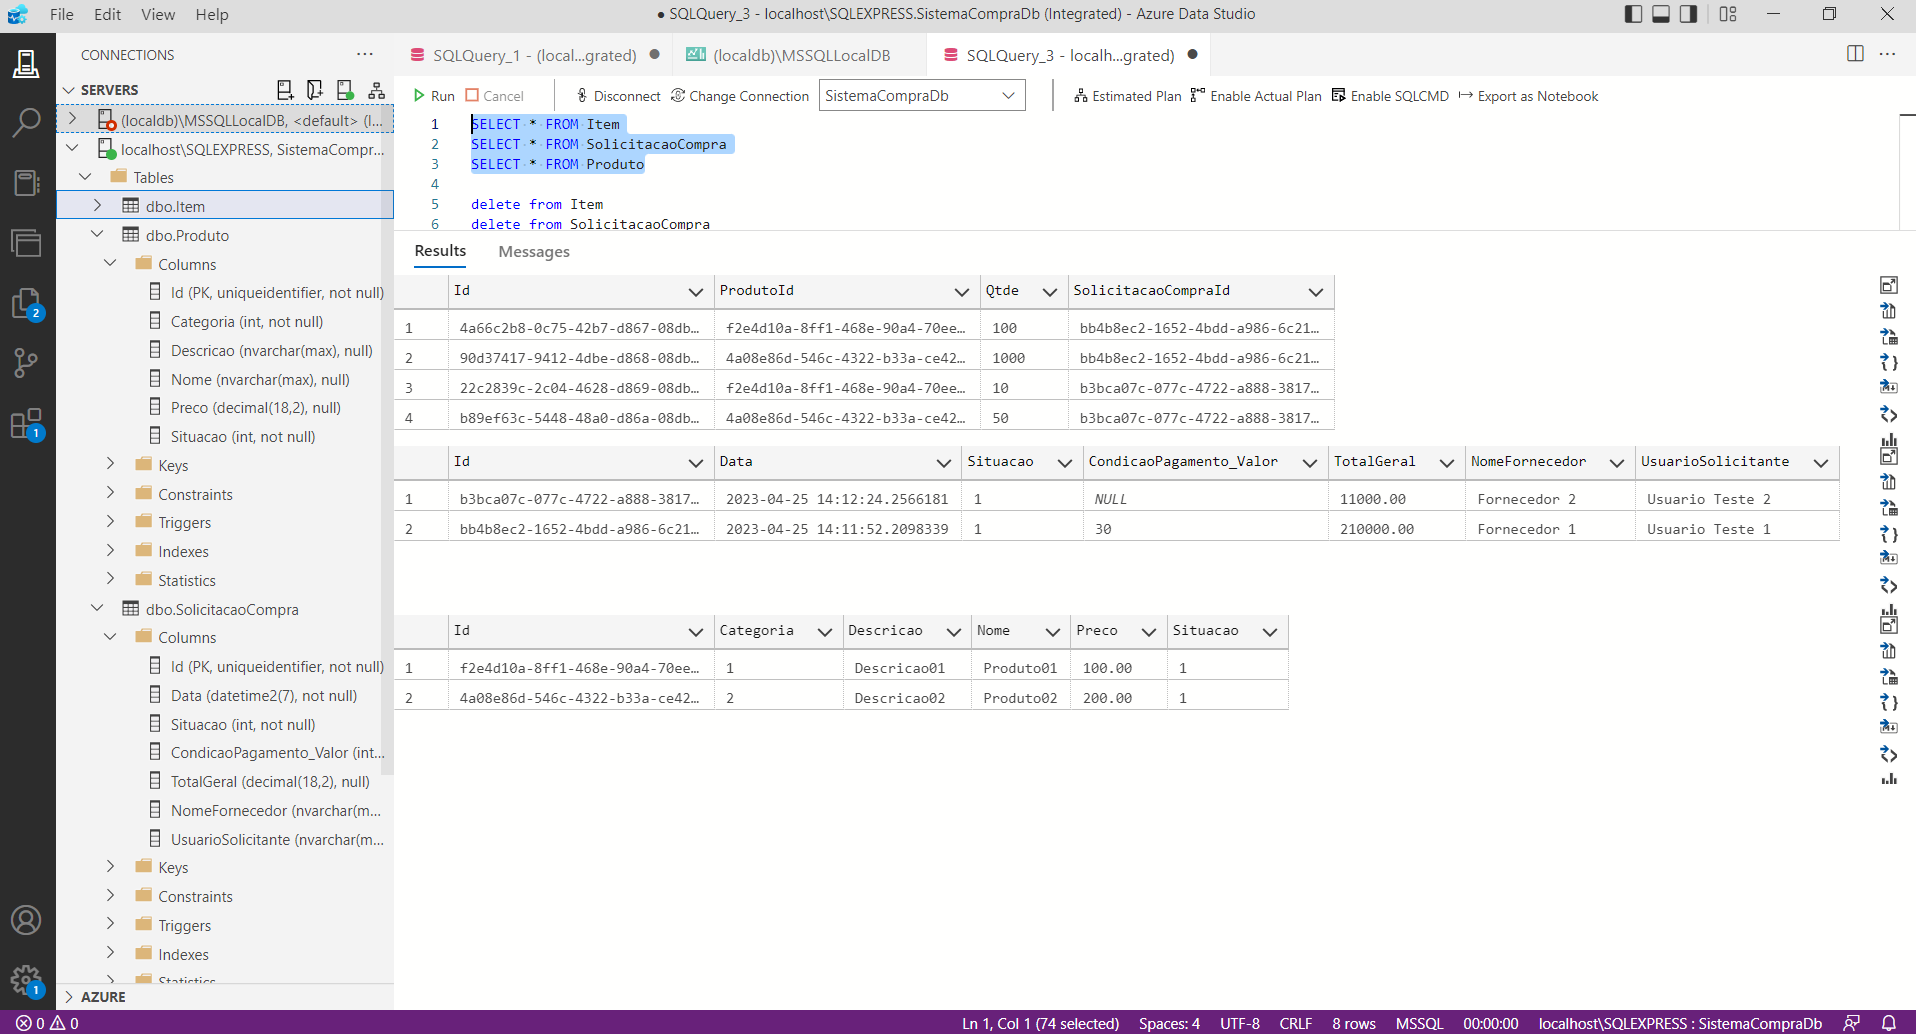
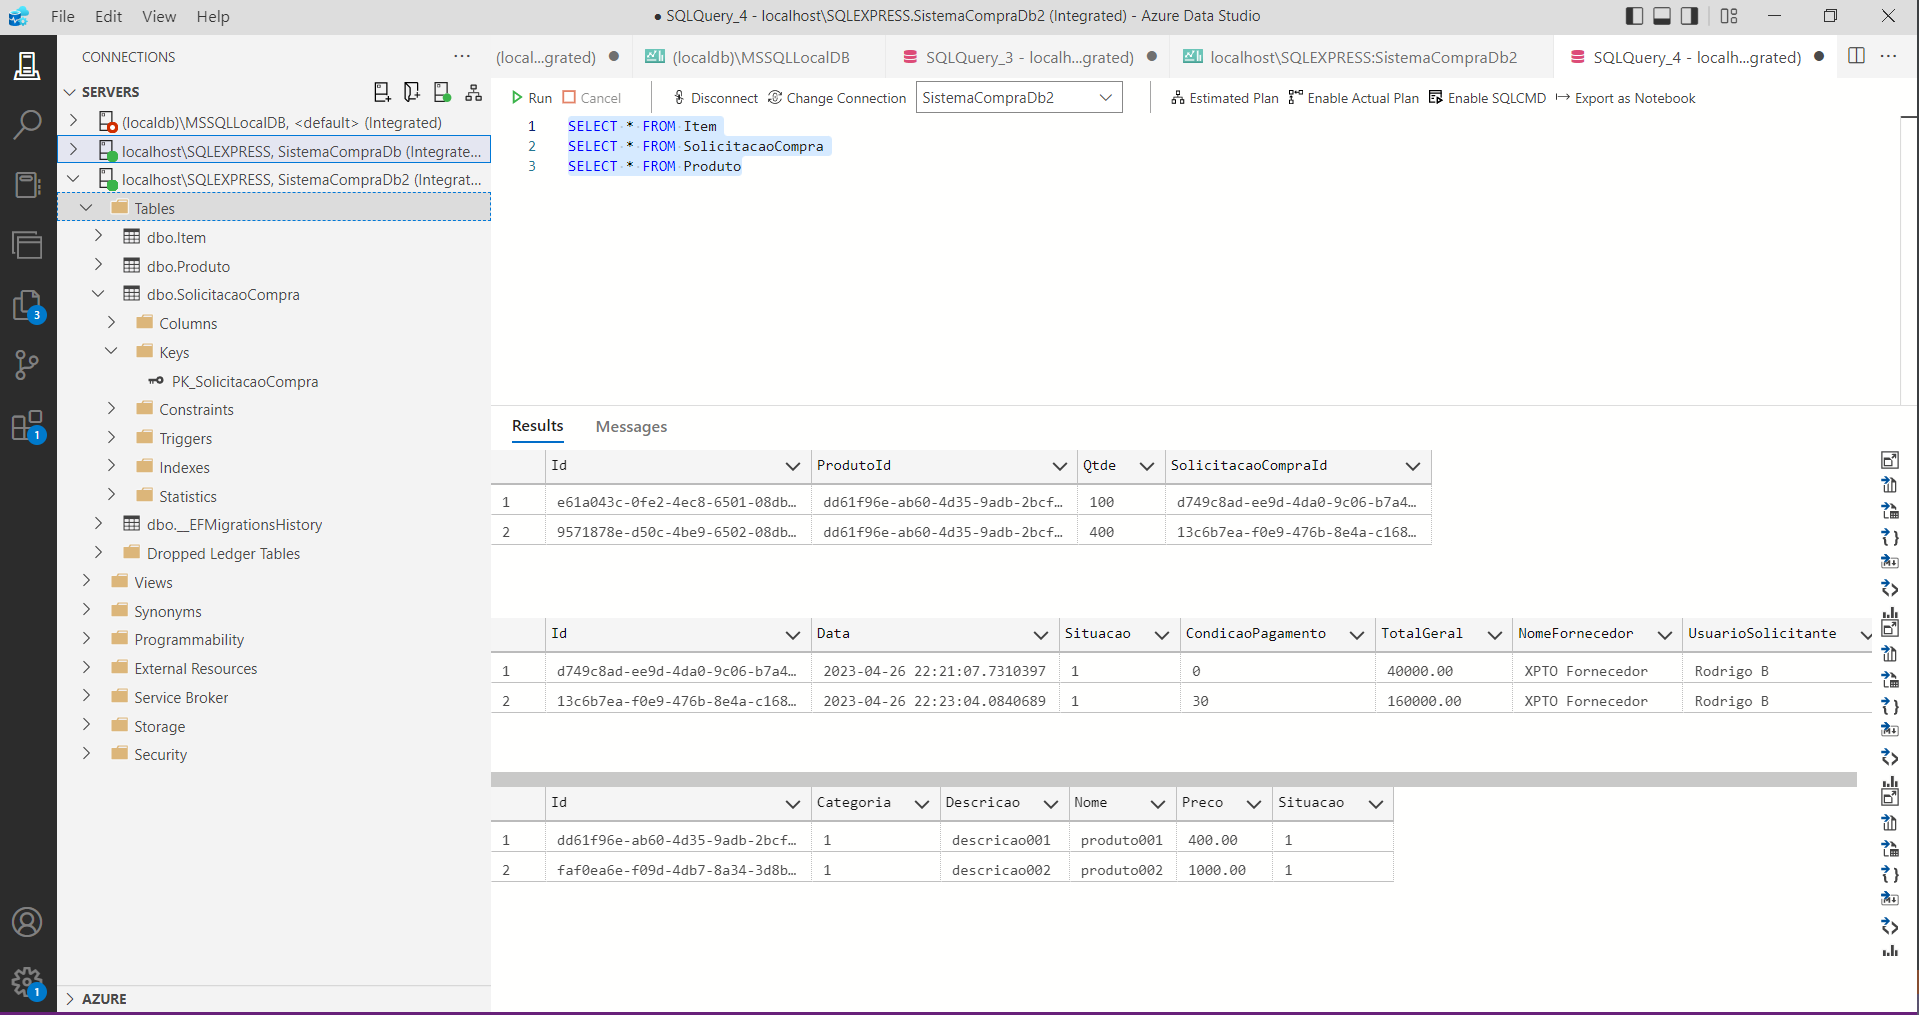
RB: - Refatorado e adicionado configurações explicitas da entidade Item e SolicitacaoCompra; - Adicionado Verificacao se enviar uma lista sem produto ou o produto não for encontrado; - Adicionado mais testes, e teste da CommandHandler de Solicitacao de Compra

diff --git a/src/SistemaCompra.API/Migrations/20230427010203_AddSolicitacaoCompra_ItemConfiguration.cs b/src/SistemaCompra.API/Migrations/20230427010203_AddSolicitacaoCompra_ItemConfiguration.cs
@@ -1,0 +1,59 @@
+using Microsoft.EntityFrameworkCore.Migrations;
+
+namespace SistemaCompra.API.Migrations
+{
+    public partial class AddSolicitacaoCompra_ItemConfiguration : Migration
+    {
+        protected override void Up(MigrationBuilder migrationBuilder)
+        {
+            migrationBuilder.RenameColumn(
+                name: "CondicaoPagamento_Valor",
+                table: "SolicitacaoCompra",
+                newName: "CondicaoPagamento");
+
+            migrationBuilder.AlterColumn<string>(
+                name: "UsuarioSolicitante",
+                table: "SolicitacaoCompra",
+                type: "varchar(100)",
+                nullable: true,
+                oldClrType: typeof(string),
+                oldType: "nvarchar(max)",
+                oldNullable: true);
+
+            migrationBuilder.AlterColumn<string>(
+                name: "NomeFornecedor",
+                table: "SolicitacaoCompra",
+                type: "varchar(100)",
+                nullable: true,
+                oldClrType: typeof(string),
+                oldType: "nvarchar(max)",
+                oldNullable: true);
+        }
+
+        protected override void Down(MigrationBuilder migrationBuilder)
+        {
+            migrationBuilder.RenameColumn(
+                name: "CondicaoPagamento",
+                table: "SolicitacaoCompra",
+                newName: "CondicaoPagamento_Valor");
+
+            migrationBuilder.AlterColumn<string>(
+                name: "UsuarioSolicitante",
+                table: "SolicitacaoCompra",
+                type: "nvarchar(max)",
+                nullable: true,
+                oldClrType: typeof(string),
+                oldType: "varchar(100)",
+                oldNullable: true);
+
+            migrationBuilder.AlterColumn<string>(
+                name: "NomeFornecedor",
+                table: "SolicitacaoCompra",
+                type: "nvarchar(max)",
+                nullable: true,
+                oldClrType: typeof(string),
+                oldType: "varchar(100)",
+                oldNullable: true);
+        }
+    }
+}

diff --git a/src/SistemaCompra.Infra.Data/SolicitacaoCompra/SolicitacaoCompraConfiguration.cs b/src/SistemaCompra.Infra.Data/SolicitacaoCompra/SolicitacaoCompraConfiguration.cs
@@ -1,5 +1,6 @@
 using Microsoft.EntityFrameworkCore;
 using Microsoft.EntityFrameworkCore.Metadata.Builders;
+using System;
 using SolicitacaoCompraAgg = SistemaCompra.Domain.SolicitacaoCompraAggregate;
 
 namespace SistemaCompra.Infra.Data.SolicitacaoCompra
@@ -9,11 +10,34 @@ namespace SistemaCompra.Infra.Data.SolicitacaoCompra
         public void Configure(EntityTypeBuilder<SolicitacaoCompraAgg.SolicitacaoCompra> builder)
         {
             builder.ToTable("SolicitacaoCompra");
-            builder.OwnsOne(c => c.TotalGeral, b => b.Property("Value").HasColumnName("TotalGeral"));
-            builder.OwnsOne(c => c.UsuarioSolicitante, b => b.Property("Nome").HasColumnName("UsuarioSolicitante"));
-            builder.OwnsOne(c => c.NomeFornecedor, b => b.Property("Nome").HasColumnName("NomeFornecedor"));
-            builder.OwnsOne(c => c.CondicaoPagamento);
+            builder.HasKey("Id");
 
+            builder.Property<Guid>("Id")
+                        .ValueGeneratedOnAdd()
+                        .HasColumnType("uniqueidentifier");
+
+            builder.Property<DateTime>("Data")
+                .HasColumnType("datetime2");
+
+            builder.Property(c => c.Situacao)
+                .HasColumnName("Situacao")
+                .HasColumnType("int");
+
+            builder.OwnsOne(c => c.TotalGeral, b => b.Property("Value")
+                .HasColumnName("TotalGeral")
+                .HasColumnType("decimal(18,2)"));
+
+            builder.OwnsOne(c => c.CondicaoPagamento, b => b.Property("Valor")
+                .HasColumnName("CondicaoPagamento")
+                .HasColumnType("int"));
+
+            builder.OwnsOne(c => c.NomeFornecedor, b => b.Property("Nome")
+                .HasColumnName("NomeFornecedor")
+                .HasColumnType("varchar(100)"));
+
+            builder.OwnsOne(c => c.UsuarioSolicitante, b => b.Property("Nome")
+                .HasColumnName("UsuarioSolicitante")
+                .HasColumnType("varchar(100)"));
         }
     }
 }

diff --git a/src/SistemaCompra.Infra.Data/SolicitacaoCompra/ItemConfiguration.cs b/src/SistemaCompra.Infra.Data/SolicitacaoCompra/ItemConfiguration.cs
@@ -1,0 +1,43 @@
+using Microsoft.EntityFrameworkCore;
+using Microsoft.EntityFrameworkCore.Metadata.Builders;
+using System;
+using System.Collections.Generic;
+using System.Text;
+
+namespace SistemaCompra.Infra.Data.SolicitacaoCompra
+{
+    public class ItemConfiguration : IEntityTypeConfiguration<Domain.SolicitacaoCompraAggregate.Item>
+    {
+        public void Configure(EntityTypeBuilder<Domain.SolicitacaoCompraAggregate.Item> builder)
+        {
+            builder.ToTable("Item");
+
+            builder.Property<Guid>("Id")
+                        .ValueGeneratedOnAdd()
+                        .HasColumnType("uniqueidentifier");
+
+            builder.Property<Guid?>("ProdutoId")
+                .HasColumnType("uniqueidentifier");
+
+            builder.Property<int>("Qtde")
+                .HasColumnType("int");
+
+            builder.Property<Guid?>("SolicitacaoCompraId")
+                .HasColumnType("uniqueidentifier");
+
+            builder.HasKey("Id");
+
+            builder.HasIndex("ProdutoId");
+
+            builder.HasIndex("SolicitacaoCompraId");
+
+            builder.HasOne("SistemaCompra.Domain.ProdutoAggregate.Produto", "Produto")
+                        .WithMany()
+                        .HasForeignKey("ProdutoId");
+
+            builder.HasOne("SistemaCompra.Domain.SolicitacaoCompraAggregate.SolicitacaoCompra", null)
+                        .WithMany("Itens")
+                        .HasForeignKey("SolicitacaoCompraId");
+        }
+    }
+}

diff --git a/src/SistemaCompra.Infra.Data/SistemaCompraContext.cs b/src/SistemaCompra.Infra.Data/SistemaCompraContext.cs
@@ -15,20 +15,16 @@ namespace SistemaCompra.Infra.Data
 
         public SistemaCompraContext(DbContextOptions options) : base(options) { }
         public DbSet<ProdutoAgg.Produto> Produtos { get; set; }
-
         public DbSet<SolicitacaoAgg.SolicitacaoCompra> SolicitacaoCompras { get; set; }
+        public DbSet<Item> Itens { get; set; }
 
         protected override void OnModelCreating(ModelBuilder modelBuilder)
         {
-            //modelBuilder.Entity<ProdutoAgg.Produto>()
-            //    .HasData(
-            //        new ProdutoAgg.Produto("Produto01", "Descricao01", "Madeira", 100)
-            //    );
-
             modelBuilder.Ignore<Event>();
 
             modelBuilder.ApplyConfiguration(new ProdutoConfiguration());
             modelBuilder.ApplyConfiguration(new SolicitacaoCompraConfiguration());
+            modelBuilder.ApplyConfiguration(new ItemConfiguration());
 
         }
 

diff --git a/src/SistemaCompra.API/Migrations/20230427010203_AddSolicitacaoCompra_ItemConfiguration.Designer.cs b/src/SistemaCompra.API/Migrations/20230427010203_AddSolicitacaoCompra_ItemConfiguration.Designer.cs
@@ -3,15 +3,17 @@ using System;
 using Microsoft.EntityFrameworkCore;
 using Microsoft.EntityFrameworkCore.Infrastructure;
 using Microsoft.EntityFrameworkCore.Metadata;
+using Microsoft.EntityFrameworkCore.Migrations;
 using Microsoft.EntityFrameworkCore.Storage.ValueConversion;
 using SistemaCompra.Infra.Data;
 
 namespace SistemaCompra.API.Migrations
 {
     [DbContext(typeof(SistemaCompraContext))]
-    partial class SistemaCompraContextModelSnapshot : ModelSnapshot
+    [Migration("20230427010203_AddSolicitacaoCompra_ItemConfiguration")]
+    partial class AddSolicitacaoCompra_ItemConfiguration
     {
-        protected override void BuildModel(ModelBuilder modelBuilder)
+        protected override void BuildTargetModel(ModelBuilder modelBuilder)
         {
 #pragma warning disable 612, 618
             modelBuilder
